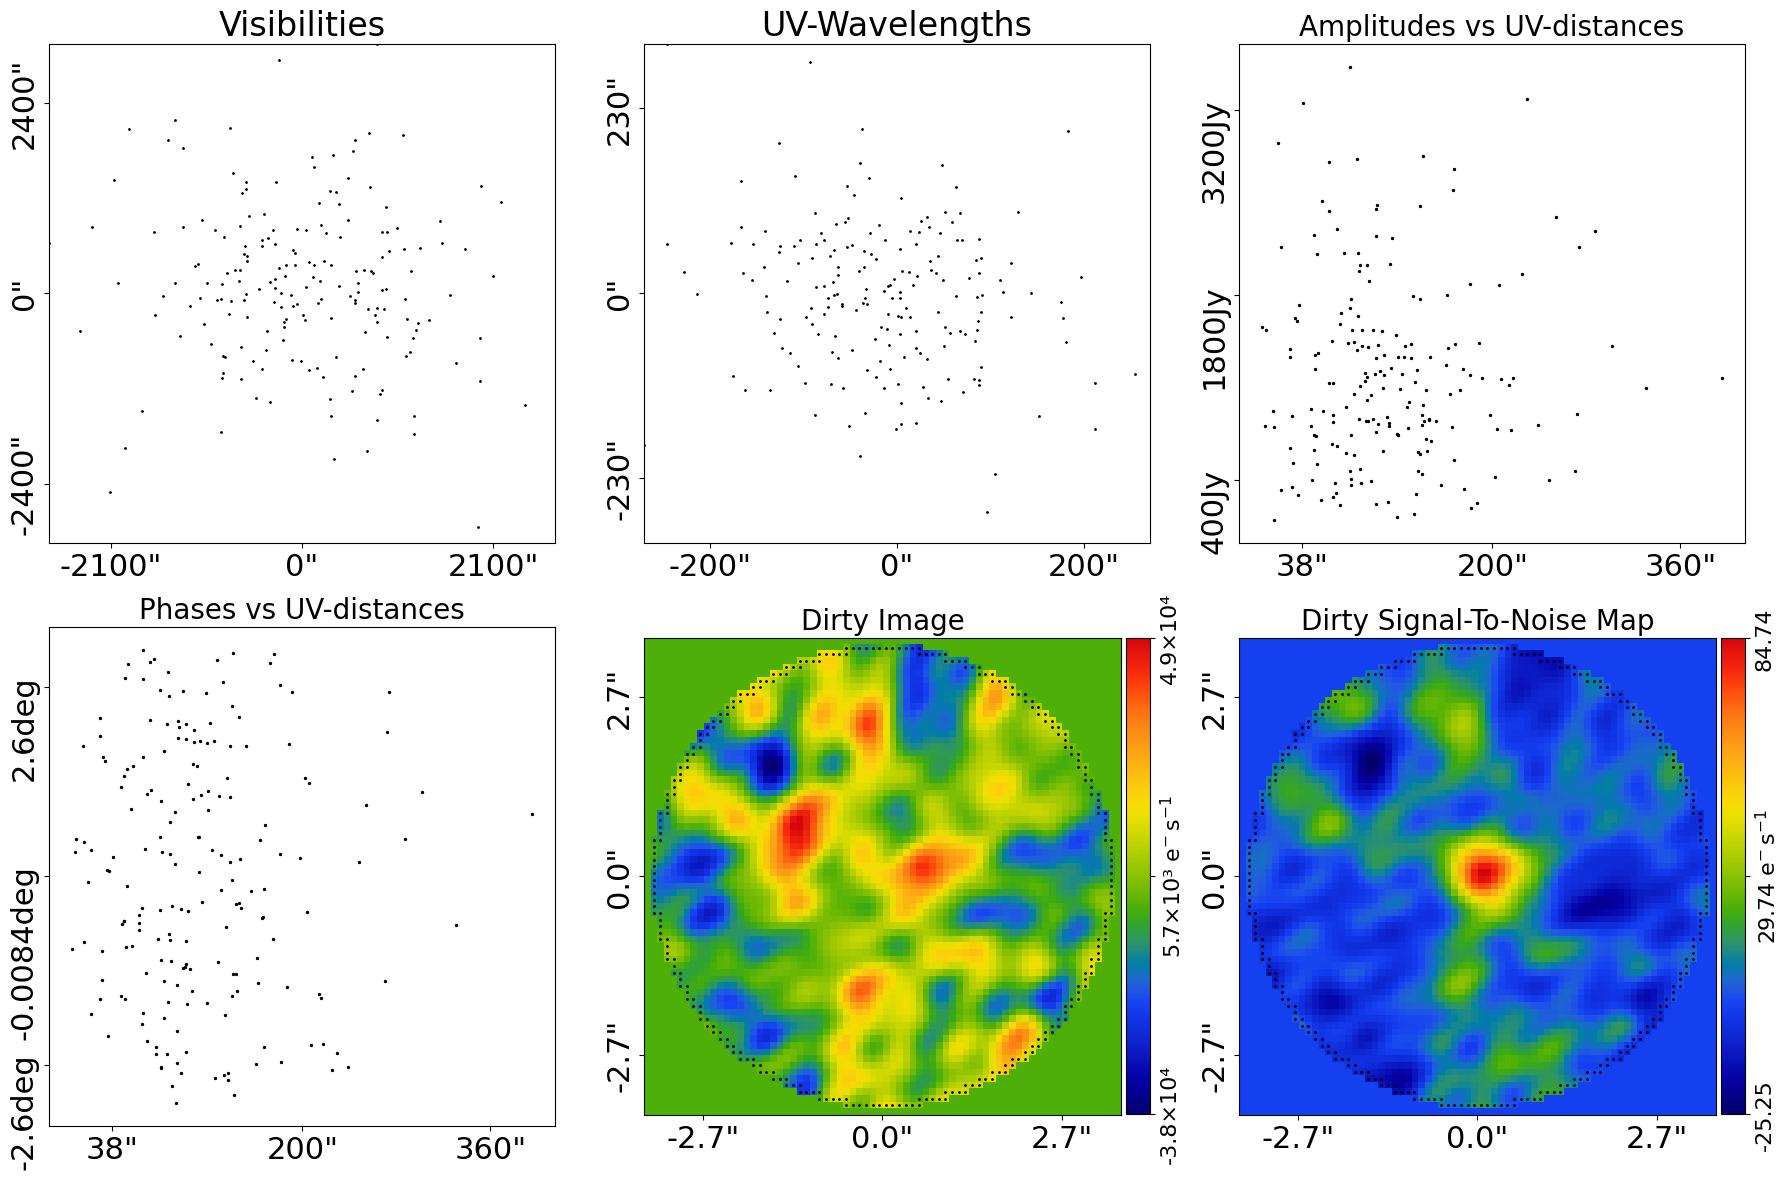
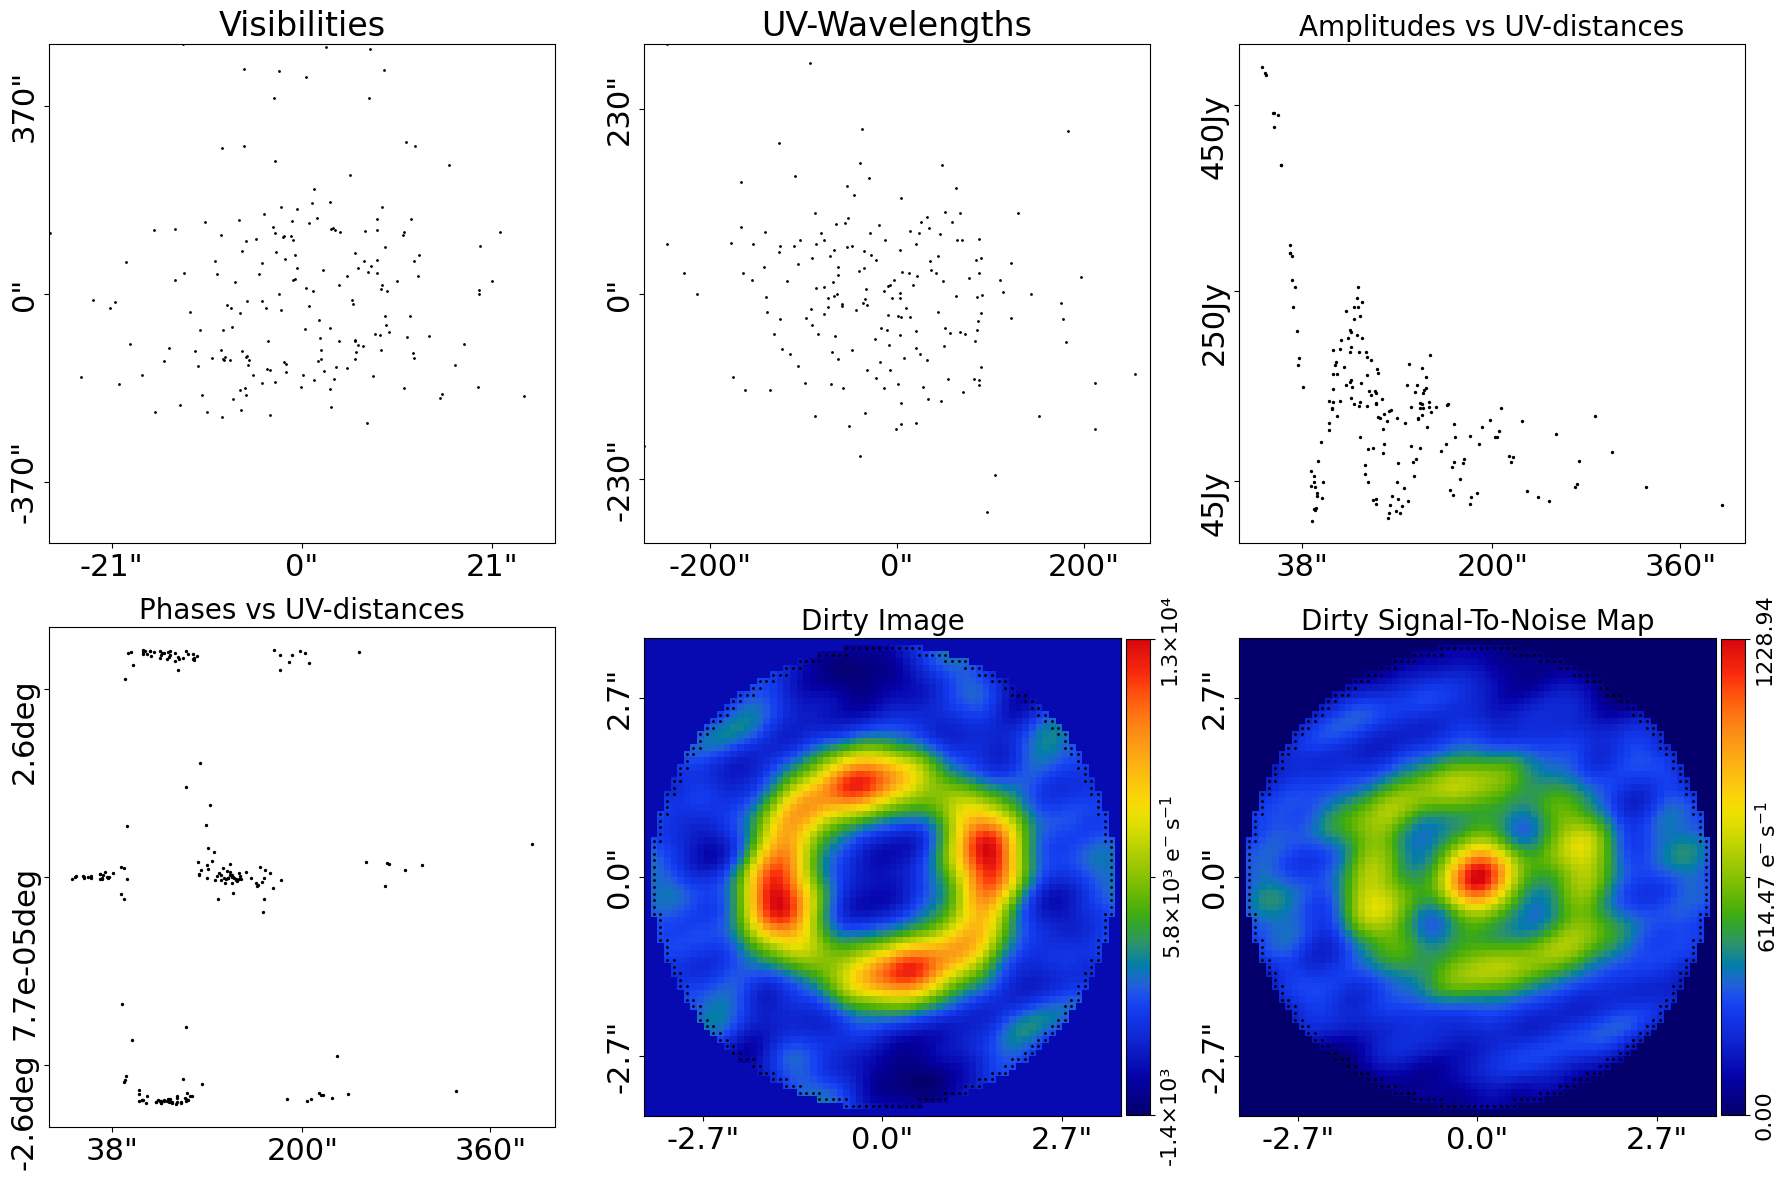
Lower sma noise_sigma to 10 so the interferometer ring is visible
At the profiling preset (1000) the 190-visibility SMA dirty image was pure
noise. This repo's copy of the preset now uses noise_sigma=10.0 (integrated
SNR a few hundred); dataset re-simulated, interferometer figures re-rendered,
deviation documented in AGENTS.md and instruments/README.md.

Claude-Session: https://claude.ai/code/session_01KMYH7bqg3JQM6XiYAmc1RF

diff --git a/instruments/interferometer.py b/instruments/interferometer.py
@@ -38,7 +38,8 @@ INSTRUMENTS: dict[str, dict] = {
         "mask_radius": 3.5,
         "n_visibilities": 190,
         "uv_scale": 3.0e5,
-        "noise_sigma": 1000.0,
+        # Deviates from autolens_profiling (1000.0) so the dirty image shows the ring (visibility).
+        "noise_sigma": 10.0,
         "seed": 1,
         "transformer": "dft",  # 190 vis × 256² grid; DFT is cheap and exact
         "transformer_chunk_size": None,  # sma is tiny; one-shot

diff --git a/AGENTS.md b/AGENTS.md
@@ -70,7 +70,10 @@ not regenerate byte-identically). `dataset/interferometer/sma` was produced by
 python scripts/misc/simulators/interferometer.py --instrument sma
 ```
 
-with the imaging simulator's lens mass, shear and source (no lens light). The auto-simulate hook
+with the imaging simulator's lens mass, shear and source (no lens light). This repo's `sma`
+preset **deviates from autolens_profiling**: `noise_sigma` is 10.0 (profiling: 1000.0), so the
+integrated SNR is a few hundred and the dirty image, residual and chi-squared panels show the ring
+instead of pure noise. The auto-simulate hook
 in `_viz_cli.py` only fires when `data.fits` is absent — it never deletes a tracked dataset.
 
 ## Adding a domain

diff --git a/instruments/README.md b/instruments/README.md
@@ -29,6 +29,13 @@ Splitting the dicts into a dedicated home means:
 - Helpers like `mask_radius_pixels(instrument)` can centralise math that
   was previously inlined across multiple files.
 
+## Deviation from autolens_profiling
+
+These presets are copied from `autolens_profiling/instruments/` with one change: the
+interferometer `sma` preset uses `noise_sigma = 10.0` (profiling: `1000.0`). At 1000 the
+190-visibility dataset was pure noise in the dirty image; at 10 the Einstein ring is visible
+so the interferometer gallery figures can be judged.
+
 ## Schema
 
 ### Imaging fields
